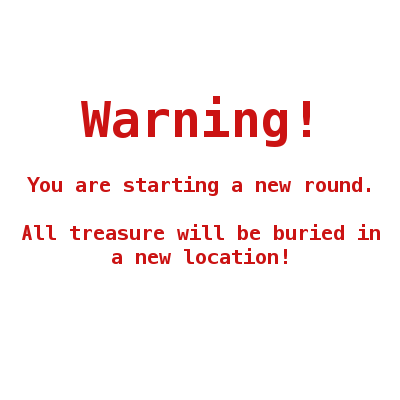
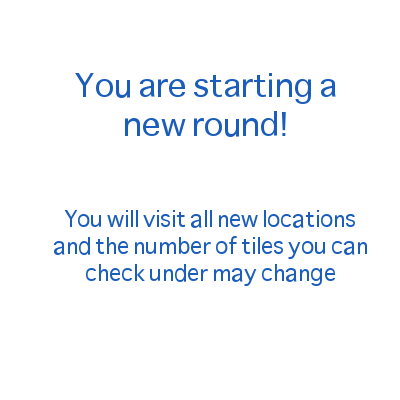
use different places for each round

Changed region(s): [[0.06, 0.45, 0.96, 0.72], [0.18, 0.18, 0.84, 0.39], [0.06, 0.45, 0.27, 0.48]]

diff --git a/static/js/experiment.js b/static/js/experiment.js
@@ -4,8 +4,7 @@ var trials_per_network;
 var trial_in_this_network = 0;
 var round_number = 0;
 var number_of_rounds;
-var all_possible_bandit_names = ["England", "Northern Ireland", "France", "Spain", "Portugal", "Germany", "Austria", "Poland", "Romania", "Ireland", "Italy", "Croatia", "Albania", "Bulgaria", "Morocco", "Libya", "Tunisia", "Egypt", "Iran", "Scotland", "Greece", "Turkey", "Sierra Leone", "Ghana", "Nigeria", "Mali", "Congo", "Ethiopia", "Chad", "Wales", "India", "Bangladesh", "Pakistan", "Afghanistan", "Australia", "New Zealand", "Tonga", "Papua New Guinea", "Fiji", "Thailand", "Laos", "Myanmar", "China", "Japan", "South Korea", "Mongolia", "Turkmenistan", "The United States", "Canada", "Greenland", "Mexico", "Guatemala", "Colombia", "Sri Lanka", "Brasil", "Argentina", "Chile", "Russia", "Ukraine", "Sweden", "Norway", "Finland", "Denmark", "Belgium", "Holland"];
-var available_bandit_names;
+var available_bandit_names = ["England", "Northern Ireland", "France", "Spain", "Portugal", "Germany", "Austria", "Poland", "Romania", "Ireland", "Italy", "Croatia", "Albania", "Bulgaria", "Morocco", "Libya", "Tunisia", "Egypt", "Iran", "Scotland", "Greece", "Turkey", "Sierra Leone", "Ghana", "Nigeria", "Mali", "Congo", "Ethiopia", "Chad", "Wales", "India", "Bangladesh", "Pakistan", "Afghanistan", "Australia", "New Zealand", "Tonga", "Papua New Guinea", "Fiji", "Thailand", "Laos", "Myanmar", "China", "Japan", "South Korea", "Mongolia", "Turkmenistan", "The United States", "Canada", "Greenland", "Mexico", "Guatemala", "Colombia", "Sri Lanka", "Brasil", "Argentina", "Chile", "Russia", "Ukraine", "Sweden", "Norway", "Finland", "Denmark", "Belgium", "Holland", "Senegal", "Botswana", "Madagascar", "Ecuador", "Costa Rica", "Nepal", "Yemen", "Gabon"];
 var bandit_names;
 
 // get all the details to correctly present the trial number bar
@@ -81,7 +80,6 @@ get_num_bandits = function() {
         success: function (resp) {
             num_bandits = resp.num_bandits;
             bandit_names = [];
-            available_bandit_names = all_possible_bandit_names;
             for (i = 0; i < num_bandits; i++) {
                 bandit_names.push("a");
             }

diff --git a/templates/instructions/instruct-4.html b/templates/instructions/instruct-4.html
@@ -13,7 +13,7 @@
 
     <hr>
 
-    <p>Across this study you will take part in <span id="number_of_rounds"></span> rounds, each involving <span id="number_of_trials"></span> trials. Between rounds all the treasure is reset, so what you learnt in previous trials won't help you any more. At the end of each round you will see the following warning:</p>
+    <p>Across this study you will take part in <span id="number_of_rounds"></span> rounds, each involving <span id="number_of_trials"></span> trials. In each round you will visit a different set of locations and the number of tiles you can check under might be different. At the end of each round you will see the following information:</p>
 
     <p align="center">
         <img class="example_image" src="/static/images/warning.png"/>
